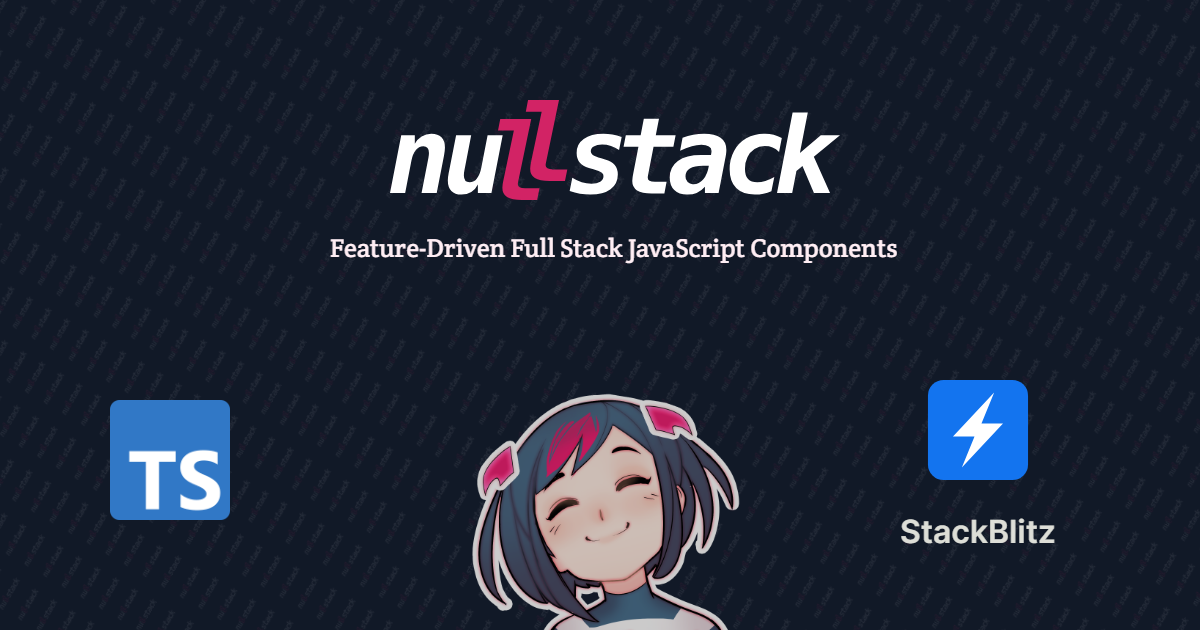
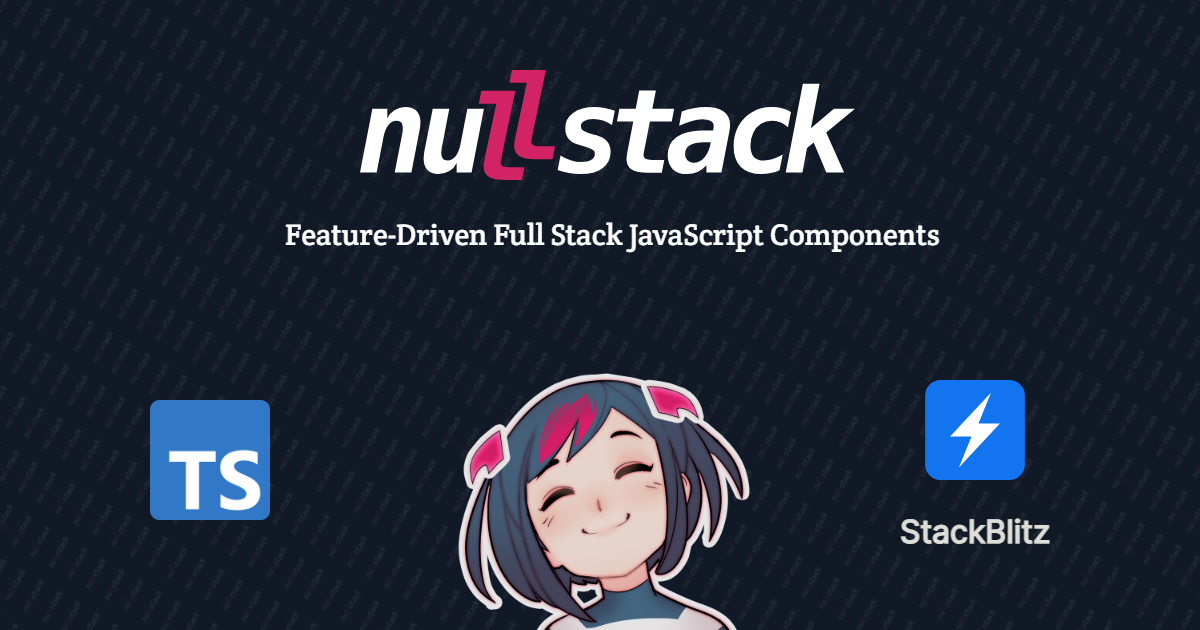
💄 Improve thumbnail & social card size

diff --git a/src/Application.tsx b/src/Application.tsx
@@ -1,14 +1,30 @@
-import Nullstack, { NullstackClientContext } from 'nullstack'
+import Nullstack, { NullstackClientContext, NullstackNode } from 'nullstack'
 
 import './Application.css'
+declare function Head(): NullstackNode
 
 class Application extends Nullstack {
 
-  prepare({ page }: NullstackClientContext) {
+  prepare({ page, project }: NullstackClientContext) {
     page.locale = 'en-US'
+    page.title = `${project.name} Full Stack Template at StackBlitz`
+    page.description = 'Run a Nullstack template with one link ✨🚀'
   }
 
-  render: () => false
+  renderHead() {
+    return (
+      <head>
+        <meta
+          name="twitter:card"
+          content="summary_large_image"
+        />
+      </head>
+    )
+  }
+
+  render() {
+    return <Head />
+  }
 
 }
 
